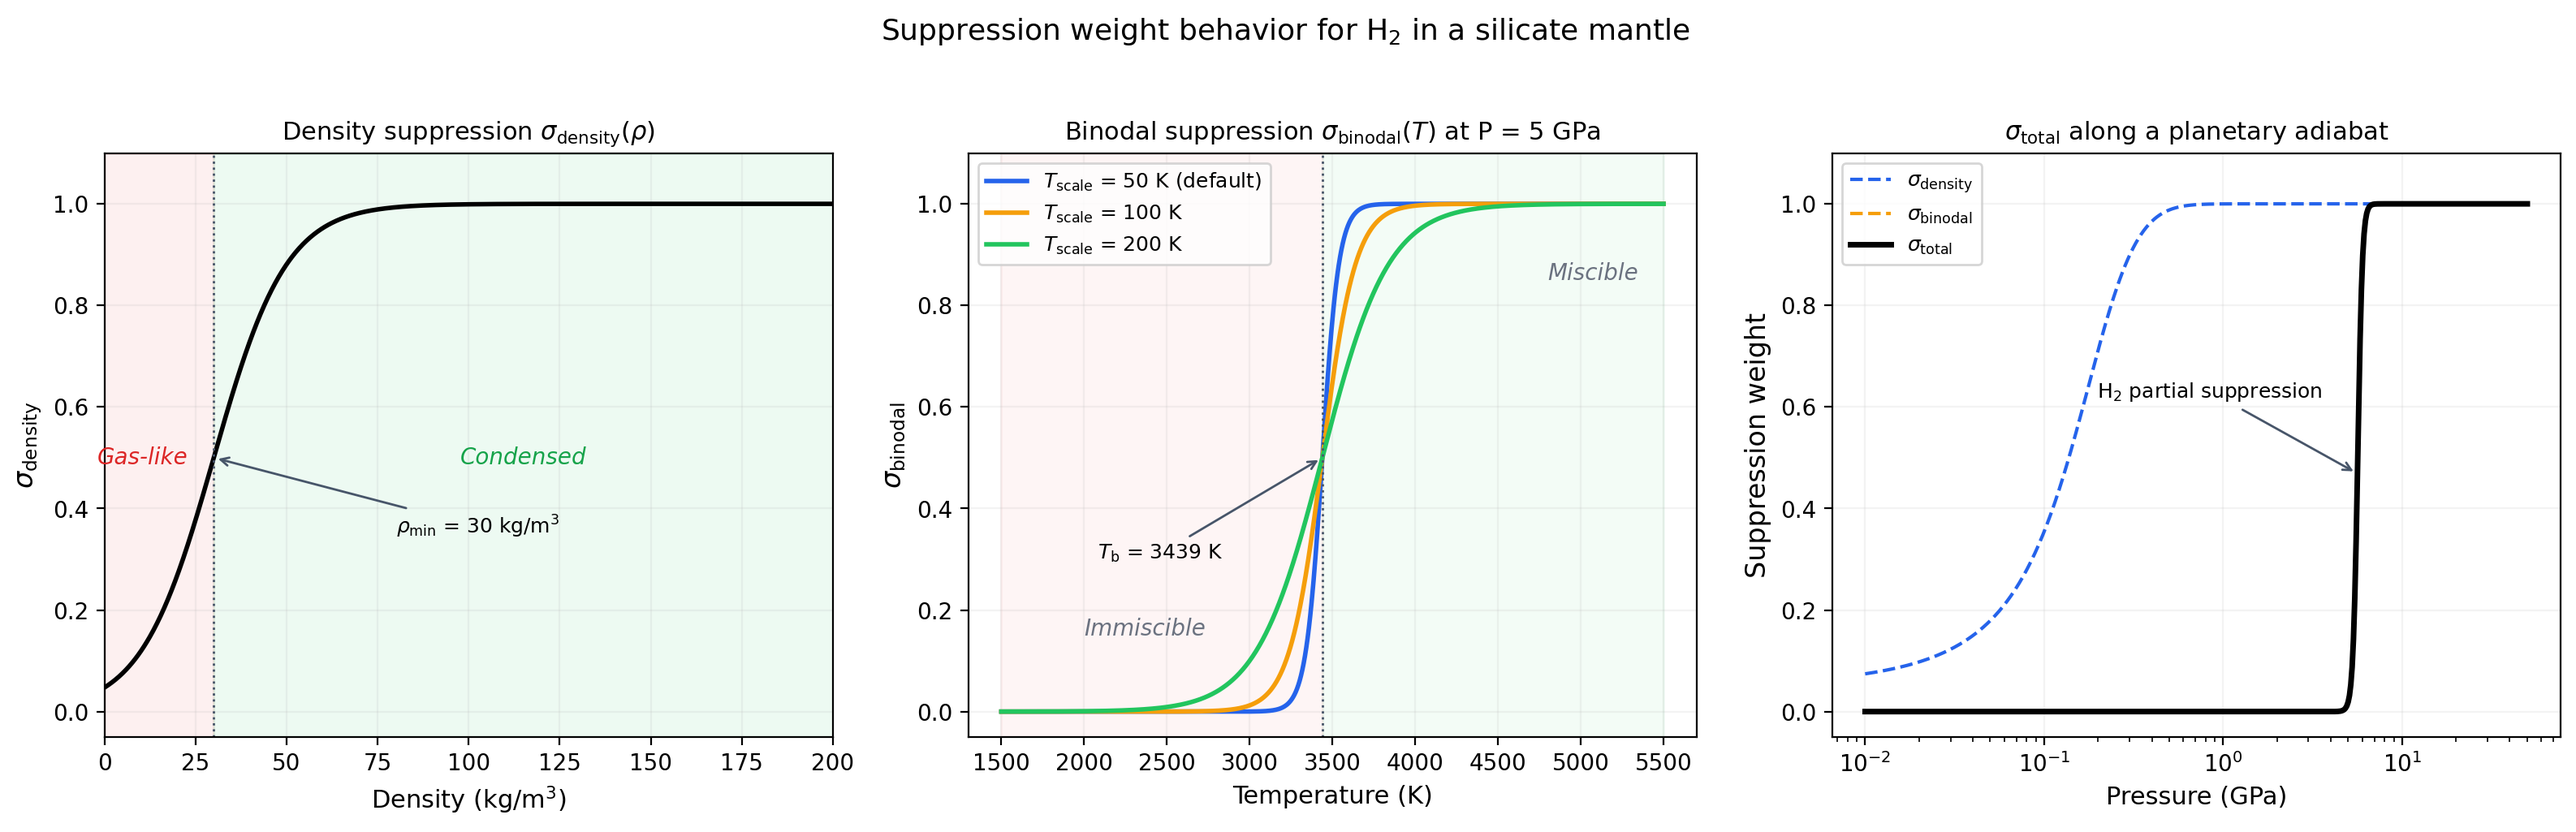
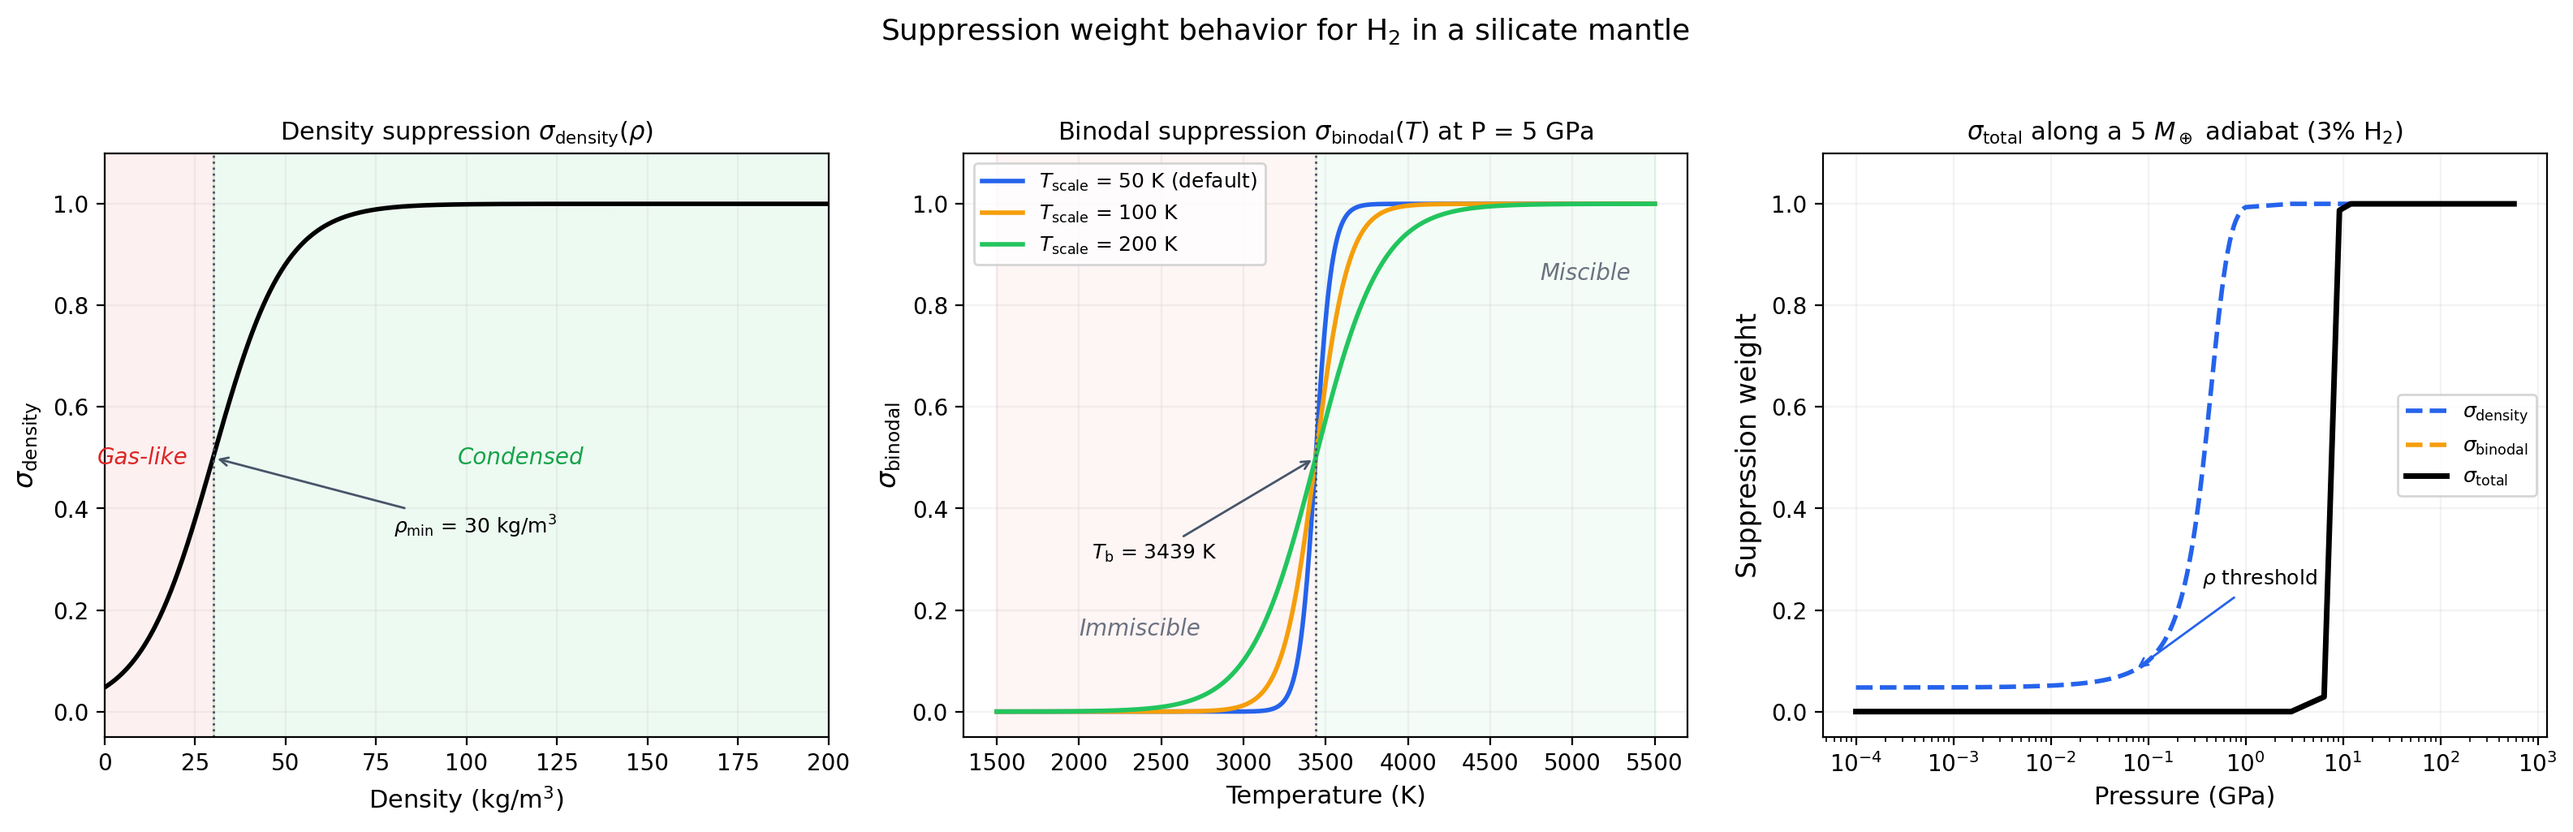
Regenerate suppression weights plot with real 5 ME sub-Neptune profile
Extend P range from 1 bar to 570 GPa so both transitions are visible:
density sigmoid at ~0.01 GPa and binodal at ~5-10 GPa. Uses actual
Zalmoxis profile data for the mantle (3 GPa+) with isothermal
extrapolation at lower pressures.

diff --git a/src/tools/generate_suppression_weights_plot.py b/src/tools/generate_suppression_weights_plot.py
@@ -158,15 +158,45 @@ def main():
     ax.set_ylim(-0.05, 1.1)
     ax.grid(alpha=0.15)
 
-    # ── Right panel: combined weight along a planetary adiabat ──
+    # ── Right panel: combined weight along a 5 ME sub-Neptune adiabat ──
     ax = axes[2]
-    # Synthetic adiabat: P from 0.01 to 50 GPa, T roughly following an adiabat
-    P_GPa = np.logspace(-2, 1.7, 500)
-    P_Pa = P_GPa * 1e9
-    # Rough adiabat: T ~ 2000 * (P/1)^0.3
-    T_adiabat = 2000.0 * (P_GPa / 1.0) ** 0.3
-    # H2 density along this adiabat (ideal gas approximation for illustration)
-    # rho ~ P * mu / (R * T), mu_H2 = 2e-3 kg/mol, R = 8.314
+
+    # Build an extended P-T adiabat that spans from the atmosphere (1 bar)
+    # through the mantle to the CMB. The real Zalmoxis profile starts at
+    # ~3 GPa (mantle surface); we extend downward to show the density
+    # sigmoid transition that happens at ~0.01 GPa.
+    #
+    # Use real profile data where available, extrapolate at low P.
+    profile_path = os.path.join(ZALMOXIS_ROOT, 'output_files', 'subneptune_profile.npz')
+    if os.path.exists(profile_path):
+        data = np.load(profile_path)
+        P_real = data['P'][data['P'] > 1e6]  # > 0.01 bar
+        T_real = data['T'][data['P'] > 1e6]
+        # Surface T from the model
+        T_surf = T_real[-1] if len(T_real) > 0 else 3000.0
+    else:
+        P_real = np.array([])
+        T_real = np.array([])
+        T_surf = 3000.0
+
+    # Extend to low P with an isothermal-to-adiabatic extrapolation
+    P_low = np.logspace(5, 9, 200)  # 1 bar to 10 GPa
+    T_low = T_surf * np.ones_like(P_low)  # roughly isothermal upper atm
+
+    # Combine and sort by P (ascending)
+    P_Pa = np.concatenate([P_low, P_real])
+    T_adiabat = np.concatenate([T_low, T_real])
+    sort_idx = np.argsort(P_Pa)
+    P_Pa = P_Pa[sort_idx]
+    T_adiabat = T_adiabat[sort_idx]
+    # Remove duplicates
+    _, unique_idx = np.unique(P_Pa, return_index=True)
+    P_Pa = P_Pa[unique_idx]
+    T_adiabat = T_adiabat[unique_idx]
+
+    P_GPa = P_Pa * 1e-9
+
+    # H2 density (ideal gas approximation: rho = P * mu / (R * T))
     rho_H2 = P_Pa * 2e-3 / (8.314 * T_adiabat)
 
     sigma_density = density_sigmoid(rho_H2, H2_RHO_MIN, H2_RHO_SCALE)
@@ -183,7 +213,7 @@ def main():
         sigma_density,
         '--',
         color='#2563eb',
-        lw=1.5,
+        lw=2,
         label=r'$\sigma_{\mathrm{density}}$',
     )
     ax.plot(
@@ -191,30 +221,47 @@ def main():
         sigma_binodal,
         '--',
         color='#f59e0b',
-        lw=1.5,
+        lw=2,
         label=r'$\sigma_{\mathrm{binodal}}$',
     )
     ax.plot(P_GPa, sigma_total, 'k-', lw=2.5, label=r'$\sigma_{\mathrm{total}}$')
 
-    # Region annotation
-    partial_mask = (sigma_total > 0.02) & (sigma_total < 0.98)
-    if np.any(partial_mask):
-        idx = np.where(partial_mask)[0]
+    # Annotate the density transition
+    partial_d = (sigma_density > 0.05) & (sigma_density < 0.95)
+    if np.any(partial_d):
+        idx = np.where(partial_d)[0]
         mid = idx[len(idx) // 2]
         ax.annotate(
-            r'H$_2$ partial suppression',
-            xy=(P_GPa[mid], sigma_total[mid]),
-            xytext=(P_GPa[mid] * 0.15, sigma_total[mid] + 0.15),
+            r'$\rho$ threshold',
+            xy=(P_GPa[mid], sigma_density[mid]),
+            xytext=(P_GPa[mid] * 5, 0.25),
             fontsize=9,
-            ha='center',
-            arrowprops=dict(arrowstyle='->', color='#475569', lw=1),
+            ha='left',
+            arrowprops=dict(arrowstyle='->', color='#2563eb', lw=1),
+        )
+
+    # Annotate the binodal transition
+    partial_b = (sigma_binodal > 0.05) & (sigma_binodal < 0.95)
+    if np.any(partial_b):
+        idx = np.where(partial_b)[0]
+        mid = idx[len(idx) // 2]
+        ax.annotate(
+            'miscibility\nboundary',
+            xy=(P_GPa[mid], sigma_binodal[mid]),
+            xytext=(P_GPa[mid] * 3, 0.65),
+            fontsize=9,
+            ha='left',
+            arrowprops=dict(arrowstyle='->', color='#f59e0b', lw=1),
         )
 
     ax.set_xscale('log')
     ax.set_xlabel('Pressure (GPa)', fontsize=11)
     ax.set_ylabel('Suppression weight', fontsize=12)
-    ax.set_title(r'$\sigma_{\mathrm{total}}$ along a planetary adiabat', fontsize=11)
-    ax.legend(fontsize=9, loc='upper left')
+    ax.set_title(
+        r'$\sigma_{\mathrm{total}}$ along a 5 $M_\oplus$ adiabat (3% H$_2$)',
+        fontsize=11,
+    )
+    ax.legend(fontsize=9, loc='center right')
     ax.set_ylim(-0.05, 1.1)
     ax.grid(alpha=0.15)
 
